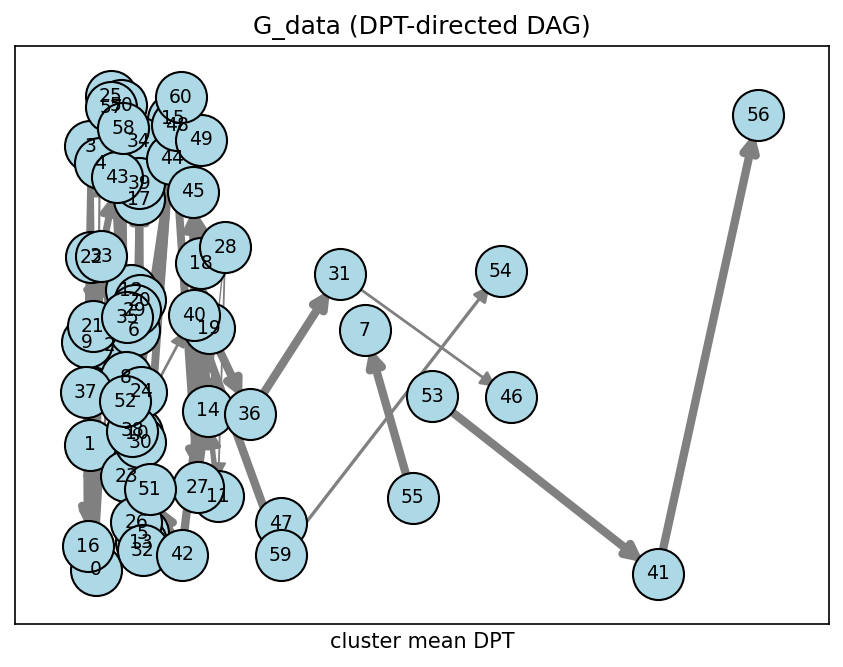
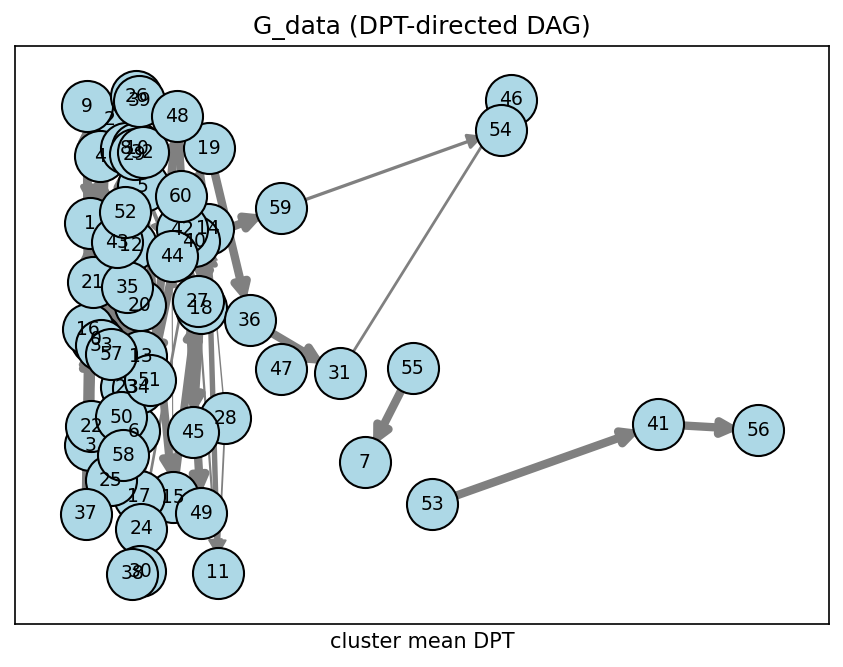
viz: 2-panel UMAP figures (raw paper UMAP + overlay), annotation labels on overlay
User feedback: 'annotation을 umap위에도 추가해서 수정' +
'원본 embedding umap도 같이 보여줘'.

umap_annotation.png:
  left  = raw paper UMAP (single grey color, unlabeled)
  right = colored by dcta_annotation + bold text label at each
          annotation class centroid
  shared x/y limits for side-by-side comparison

umap_paper_with_g_data.png:
  left  = raw paper UMAP (single grey color)
  right = paper UMAP + leiden cluster colors + G_data edges (black)
          + backbone (navy) + cluster id AND annotation as two-line
          label at each cluster centroid (was: cluster id only)

No algorithm/metric changes; pure viz update.

diff --git a/dcta/viz.py b/dcta/viz.py
@@ -198,16 +198,23 @@ def umap_paper_with_g_data(adata: ad.AnnData, path: str) -> None:
     Per feedback_use_original_embedding: prefer published embedding over
     locally-recomputed UMAP.
     """
-    fig, ax = plt.subplots(figsize=(8, 7))
+    fig, axes = plt.subplots(1, 2, figsize=(15, 7))
+    ax_raw, ax = axes
     if "X_umap" not in adata.obsm:
-        ax.text(0.5, 0.5, "No X_umap in adata.obsm\n"
-                          "(original paper embedding not available)",
-                ha="center", va="center", fontsize=12, transform=ax.transAxes)
-        ax.set_axis_off()
+        for a_ in axes:
+            a_.text(0.5, 0.5, "No X_umap in adata.obsm\n"
+                              "(original paper embedding not available)",
+                    ha="center", va="center", fontsize=12, transform=a_.transAxes)
+            a_.set_axis_off()
         _save(fig, path)
         return
 
     um = np.asarray(adata.obsm["X_umap"])
+    ax_raw.scatter(um[:, 0], um[:, 1], s=4, color="#777777",
+                   alpha=0.6, linewidths=0)
+    ax_raw.set_xlabel("UMAP 1 (paper)")
+    ax_raw.set_ylabel("UMAP 2 (paper)")
+    ax_raw.set_title("Paper UMAP (raw, unlabeled)", fontsize=10)
     leiden = adata.obs["dcta_leiden"].astype(str).to_numpy()
     clusters = sorted(np.unique(leiden), key=lambda x: int(x) if x.isdigit() else x)
     cmap = plt.cm.tab20
@@ -239,43 +246,75 @@ def umap_paper_with_g_data(adata: ad.AnnData, path: str) -> None:
             ax.annotate("", xy=(x1, y1), xytext=(x0, y0),
                         arrowprops=dict(arrowstyle="->", color="navy",
                                         lw=3.0, alpha=0.85))
-    # Cluster id labels
+    # Cluster id labels (+ annotation if available)
+    cluster_annot = adata.uns.get("dcta", {}).get("cluster_annotation", {}) or {}
     for c, (cx, cy) in centroids.items():
-        ax.text(cx, cy, c, fontsize=8, ha="center", va="center",
+        ann = cluster_annot.get(c)
+        label = f"{c}\n{ann}" if ann else c
+        ax.text(cx, cy, label, fontsize=6, ha="center", va="center",
                 bbox=dict(boxstyle="round,pad=0.2", facecolor="white",
-                          alpha=0.7, edgecolor="grey"))
+                          alpha=0.8, edgecolor="grey"))
     ax.set_xlabel("UMAP 1 (paper embedding)")
     ax.set_ylabel("UMAP 2 (paper embedding)")
-    ax.set_title("Original paper UMAP with G_data overlay\n"
-                 "(black=edges, navy=backbone)", fontsize=10)
+    ax.set_title("Paper UMAP with G_data overlay\n"
+                 "(black=edges, navy=backbone, cluster id + annotation)",
+                 fontsize=10)
+    ax_raw.set_xlim(ax.get_xlim())
+    ax_raw.set_ylim(ax.get_ylim())
     _save(fig, path)
 
 
 def umap_annotation(adata: ad.AnnData, path: str,
                     col: str = "dcta_annotation") -> None:
-    """Paper UMAP colored by annotation label (or placeholder if missing)."""
-    fig, ax = plt.subplots(figsize=(8, 7))
+    """Two-panel figure: left = raw paper UMAP (unlabeled), right = same
+    UMAP colored + text-labeled by `col`. If X_umap or `col` missing,
+    draws a placeholder.
+    """
+    fig, axes = plt.subplots(1, 2, figsize=(15, 7))
+    ax_raw, ax = axes
     if "X_umap" not in adata.obsm or col not in adata.obs.columns:
-        ax.text(0.5, 0.5, f"missing {col!r} or X_umap",
-                ha="center", va="center", transform=ax.transAxes)
-        ax.set_axis_off()
+        for a_ in axes:
+            a_.text(0.5, 0.5, f"missing {col!r} or X_umap",
+                    ha="center", va="center", transform=a_.transAxes)
+            a_.set_axis_off()
         _save(fig, path)
         return
     um = np.asarray(adata.obsm["X_umap"])
+
+    # ---- left: raw paper UMAP, single color ----
+    ax_raw.scatter(um[:, 0], um[:, 1], s=4, color="#777777",
+                   alpha=0.6, linewidths=0)
+    ax_raw.set_xlabel("UMAP 1 (paper)")
+    ax_raw.set_ylabel("UMAP 2 (paper)")
+    ax_raw.set_title("Paper UMAP (raw, unlabeled)", fontsize=10)
+
+    # ---- right: colored + labeled ----
     labels = adata.obs[col].astype(object).fillna("NA").to_numpy()
     uniq = sorted(set(labels))
     cmap = plt.cm.tab20
     color_for = {l: ("#cccccc" if l == "NA" else cmap(i % 20))
                  for i, l in enumerate(uniq)}
+    centroids: dict = {}
     for l in uniq:
         m = labels == l
         ax.scatter(um[m, 0], um[m, 1], s=4, color=color_for[l],
-                   label=l, alpha=0.7, linewidths=0)
+                   label=l, alpha=0.6, linewidths=0)
+        if m.any() and l != "NA":
+            centroids[l] = um[m].mean(axis=0)
+    for l, (cx, cy) in centroids.items():
+        ax.text(cx, cy, l, fontsize=7, ha="center", va="center",
+                weight="bold",
+                bbox=dict(boxstyle="round,pad=0.2", facecolor="white",
+                          alpha=0.85, edgecolor="grey", linewidth=0.5))
     ax.legend(markerscale=2, fontsize=6, loc="best", ncol=2,
               frameon=False, labelspacing=0.2)
     ax.set_xlabel("UMAP 1 (paper)")
     ax.set_ylabel("UMAP 2 (paper)")
-    ax.set_title(f"Paper UMAP colored by {col}", fontsize=10)
+    ax.set_title(f"Paper UMAP colored + labeled by {col}", fontsize=10)
+
+    # Share axes (same UMAP coords)
+    ax_raw.set_xlim(ax.get_xlim())
+    ax_raw.set_ylim(ax.get_ylim())
     _save(fig, path)
 
 
